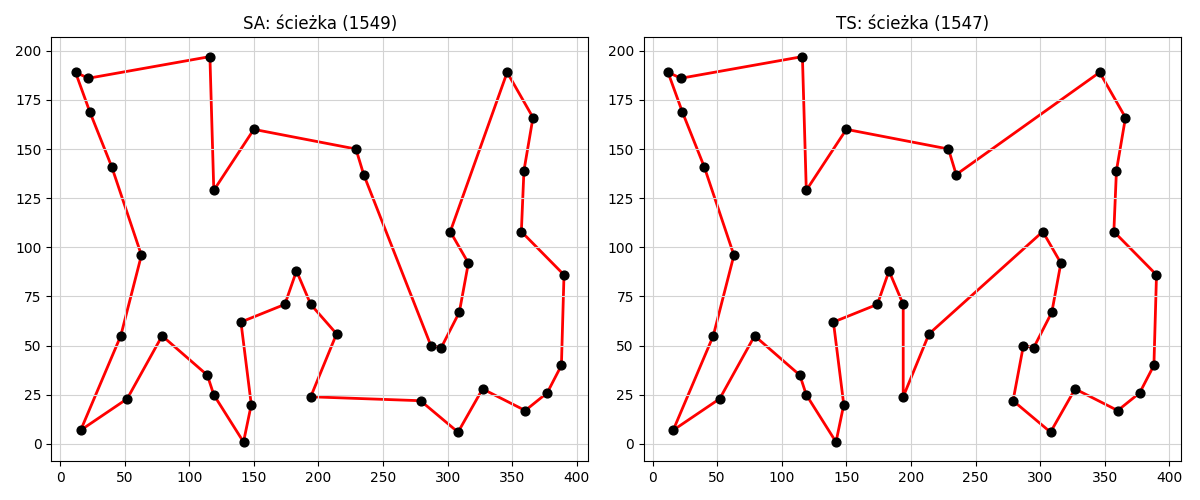
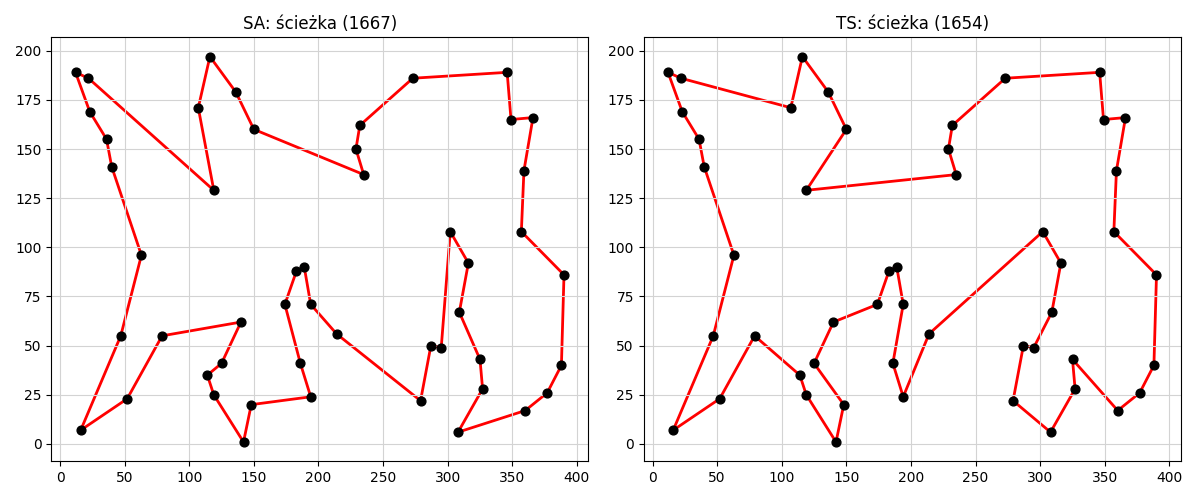
Wykonanie alogorytmu symulowanego wyrzarzania

diff --git a/Lab5/main.py b/Lab5/main.py
@@ -1,10 +1,11 @@
 import numpy as np
 import matplotlib.pyplot as plt
 import random
+import time
 
-NUM_NODES = 40
-STEPS = 1000
-SA_TEMP_START = 10000
+NUM_NODES = 50
+TIME_LIMIT = 180.0  
+SA_TEMP_START = 10000.0
 SA_TEMP_ALPHA = 0.99
 TS_TABU_SIZE = 32
 
@@ -50,7 +51,7 @@ def sa_step(path, temp, nodes, sa_best_dist, sa_best_path):
         if c1 <= c0 or akce:
             c0 = c1
         else:
-            path_move(path, move)
+            path_move(path, move) 
         if sa_best_dist > c0:
             sa_best_dist = c0
             sa_best_path = list(path)
@@ -90,7 +91,7 @@ def ts_find_best_move(path, nodes, tabu_list, ts_best_dist, ts_best_path):
             if ts_best_dist > best_dist:
                 ts_best_dist = best_dist
                 ts_best_path = list(path)
-            path_move(path, (a, b))
+            path_move(path, (a, b)) 
     return (best_a, best_b), ts_best_dist, ts_best_path
 
 def rand_path(n):
@@ -102,30 +103,49 @@ def rand_path(n):
 
 start_path = rand_path(NUM_NODES)
 start_dist = path_dist(start_path, nodes)
+
 sa_path = list(start_path)
 ts_path = list(start_path)
-sa_data_dist = [start_dist]
-ts_data_dist = [start_dist]
+
 sa_best_dist = start_dist
 sa_best_path = list(start_path)
 ts_best_dist = start_dist
 ts_best_path = list(start_path)
+
 ts_tabu = []
 sa_temp = SA_TEMP_START
 
-for step in range(STEPS):
+sa_history = [(0.0, start_dist)]
+ts_history = [(0.0, start_dist)]
+
+print(f"Rozpoczynam obliczenia z limitem {TIME_LIMIT}s na algorytm...")
+
+print("Trwa uruchamianie SA...")
+sa_start_time = time.time()
+while True:
+    current_time = time.time() - sa_start_time
+    if current_time >= TIME_LIMIT:
+        break    
     sa_best_dist, sa_best_path = sa_step(sa_path, sa_temp, nodes, sa_best_dist, sa_best_path)
     sa_temp *= SA_TEMP_ALPHA
-    sa_data_dist.append(path_dist(sa_path, nodes))
+    
+    sa_history.append((current_time, path_dist(sa_path, nodes)))
+
+print("Trwa uruchamianie TS...")
+ts_start_time = time.time()
+while True:
+    current_time = time.time() - ts_start_time
+    if current_time >= TIME_LIMIT:
+        break
+        
     move, ts_best_dist, ts_best_path = ts_find_best_move(ts_path, nodes, ts_tabu, ts_best_dist, ts_best_path)
     ts_add_move_tabu(ts_path, move, ts_tabu, TS_TABU_SIZE)
     path_move(ts_path, move)
-    ts_data_dist.append(path_dist(ts_path, nodes))
+    
+    ts_history.append((current_time, path_dist(ts_path, nodes)))
 
 sa_path = sa_best_path
 ts_path = ts_best_path
-sa_data_dist.append(sa_best_dist)
-ts_data_dist.append(ts_best_dist)
 
 with open("sciezki.txt", "w") as f:
     f.write(f"SA_BEST_DIST: {sa_best_dist}\n")
@@ -154,13 +174,22 @@ plt.close(fig_maps)
 fig_graphs, axs_graphs = plt.subplots(1, 2, figsize=(12, 5))
 fig_graphs.patch.set_facecolor('white')
 
-axs_graphs[0].plot(sa_data_dist, color='red')
-axs_graphs[0].set_title("SA: długość w czasie", color='black')
+sa_times = [h[0] for h in sa_history]
+sa_dists = [h[1] for h in sa_history]
+ts_times = [h[0] for h in ts_history]
+ts_dists = [h[1] for h in ts_history]
+
+axs_graphs[0].plot(sa_times, sa_dists, color='red')
+axs_graphs[0].set_title("SA: długość funkcji czasu", color='black')
+axs_graphs[0].set_xlabel("Czas [s]")
+axs_graphs[0].set_ylabel("Dystans")
 axs_graphs[0].set_facecolor('white')
 axs_graphs[0].grid(True, color='lightgray')
 
-axs_graphs[1].plot(ts_data_dist, color='red')
-axs_graphs[1].set_title("TS: długość w czasie", color='black')
+axs_graphs[1].plot(ts_times, ts_dists, color='red')
+axs_graphs[1].set_title("TS: długość w funkcji czasu", color='black')
+axs_graphs[1].set_xlabel("Czas [s]")
+axs_graphs[1].set_ylabel("Dystans")
 axs_graphs[1].set_facecolor('white')
 axs_graphs[1].grid(True, color='lightgray')
 
